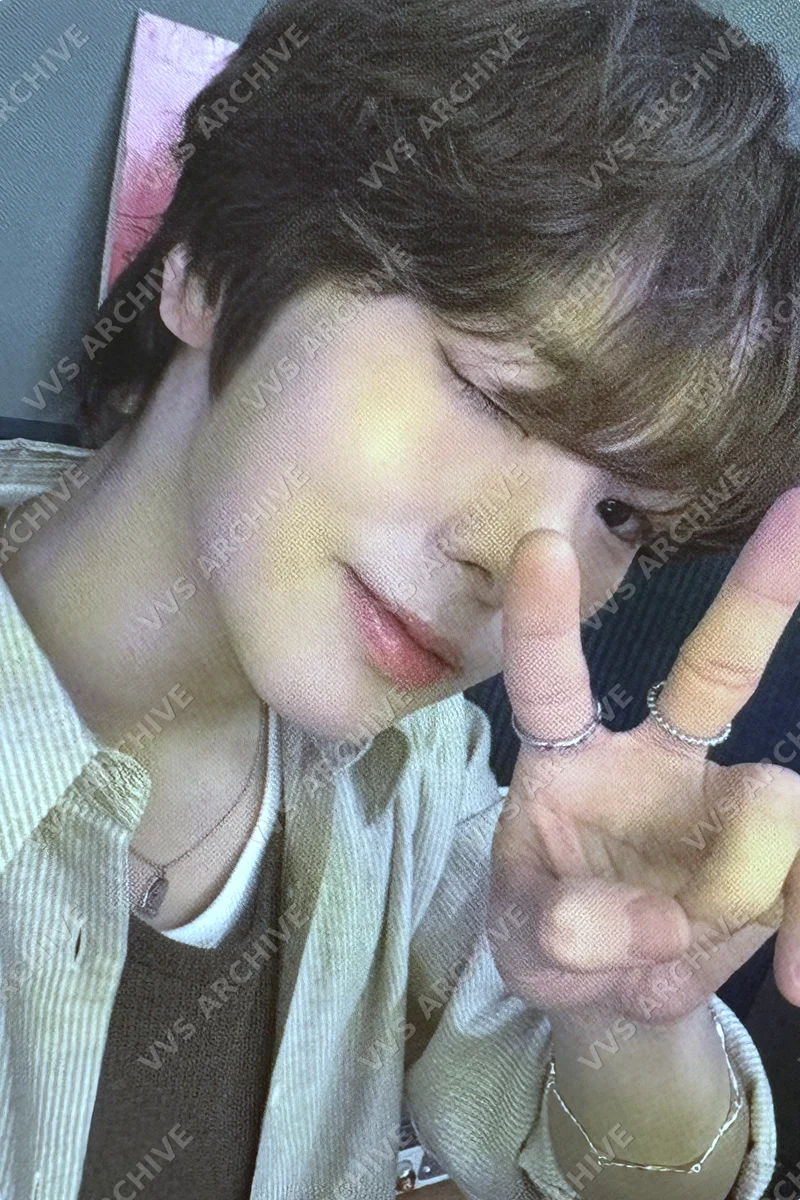
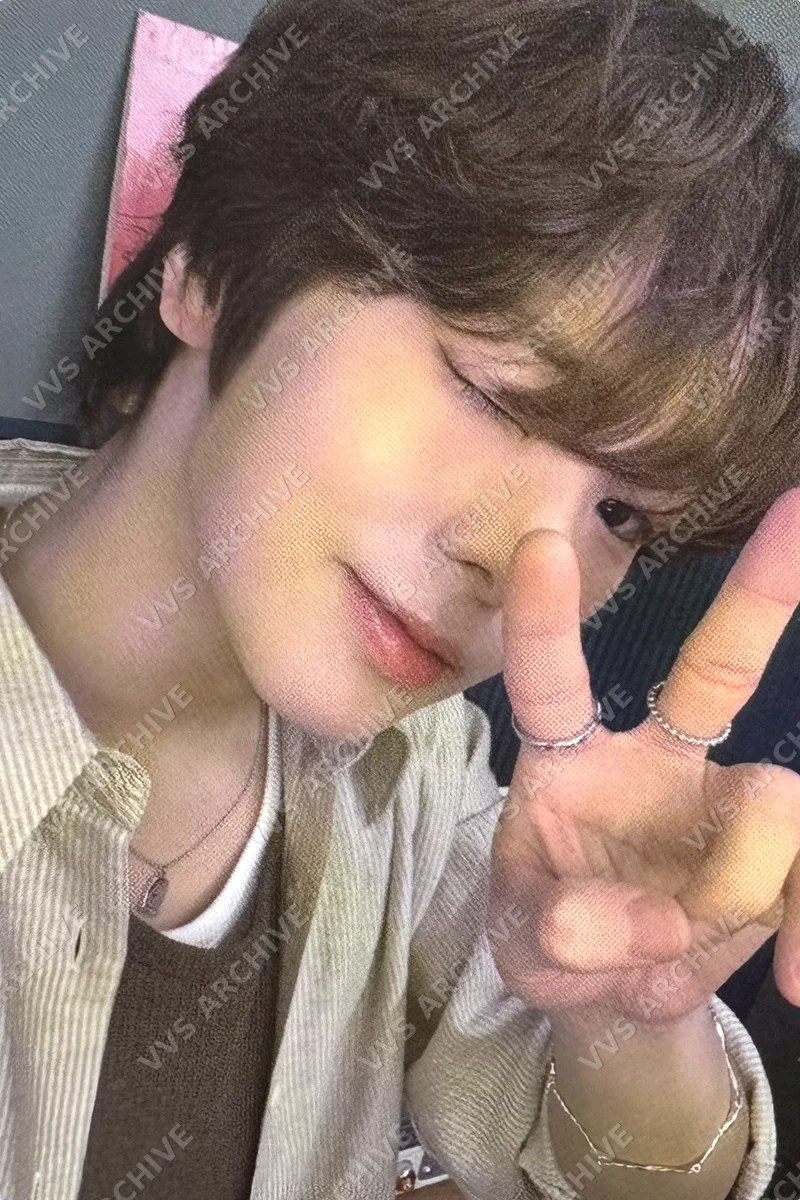
white balance fix

diff --git a/scripts/card_process.py b/scripts/card_process.py
@@ -42,22 +42,56 @@ def center_crop_fallback(img):
         return img[offset_y:offset_y + target_h, :]
 
 def apply_white_balance(bgr_img):
-    result = bgr_img.astype(np.float32)
-    average_b = np.mean(result[:, :, 0])
-    average_g = np.mean(result[:, :, 1])
-    average_r = np.mean(result[:, :, 2])
+    h, w = bgr_img.shape[:2]
+    corner_h = int(h * 0.12)
+    corner_w = int(w * 0.12)
+    
+    corners = {
+        "tl": bgr_img[0:corner_h, 0:corner_w],
+        "tr": bgr_img[0:corner_h, w-corner_w:w],
+        "bl": bgr_img[h-corner_h:h, 0:corner_w],
+        "br": bgr_img[h-corner_h:h, w-corner_w:w]
+    }
+    
+    best_bg = None
+    max_score = -float('inf')
+    
+    for key, patch in corners.items():
+        b_mean = np.mean(patch[:, :, 0])
+        g_mean = np.mean(patch[:, :, 1])
+        r_mean = np.mean(patch[:, :, 2])
+        
+        brightness = (b_mean + g_mean + r_mean) / 3.0
+        color_std = np.std([b_mean, g_mean, r_mean])
+        score = brightness - (color_std * 0.5)
+        
+        if score > max_score:
+            max_score = score
+            best_bg = patch
+            
+    if best_bg is None:
+        best_bg = corners["tr"]
+        
+    average_b = np.mean(best_bg[:, :, 0])
+    average_g = np.mean(best_bg[:, :, 1])
+    average_r = np.mean(best_bg[:, :, 2])
     average = (average_b + average_g + average_r) / 3.0
     
+    result = bgr_img.astype(np.float32)
     if average_b > 0: result[:, :, 0] *= (average / average_b)
     if average_g > 0: result[:, :, 1] *= (average / average_g)
     if average_r > 0: result[:, :, 2] *= (average / average_r)
     
     return np.clip(result, 0, 255).astype(np.uint8)
 
-def crop_card(image_path):
-    img = cv2.imread(image_path)
+def crop_card(image_input):
+    if isinstance(image_input, str):
+        img = cv2.imread(image_input)
+    else:
+        img = image_input
+        
     if img is None:
-        raise ValueError(f"Unable to read image at: {image_path}")
+        raise ValueError("Unable to read image for cropping")
     
     h, w = img.shape[:2]
     img_area = h * w
@@ -140,18 +174,19 @@ def apply_watermark(bgr_image, watermark_text="VVS ARCHIVE"):
 
 def process_card_image(input_path, card_id, output_dir="public/cards"):
     try:
-        cropped_bgr = crop_card(input_path)
-        balanced_bgr = apply_white_balance(cropped_bgr)
-        # 調整亮度與對比度 (alpha: 對比度, beta: 亮度增益)
-        alpha = 1.1  # 可依需求微調對比度 (1.0 為原樣)
-        beta = 15    # 增加亮度數值 (正數調亮)
-        bright_bgr = cv2.convertScaleAbs(balanced_bgr, alpha=alpha, beta=beta)
+        raw_img = cv2.imread(input_path)
+        if raw_img is None:
+            raise ValueError(f"Unable to read image at: {input_path}")
         
+        # Flow: White Balance -> Crop -> Contrast/Brightness -> Resize -> Watermark
+        balanced_bgr = apply_white_balance(raw_img)
+        cropped_bgr = crop_card(balanced_bgr)
+        
+        alpha = 1.1
+        beta = 15
+        bright_bgr = cv2.convertScaleAbs(cropped_bgr, alpha=alpha, beta=beta)
         
         standardized_bgr = cv2.resize(bright_bgr, (800, 1200), interpolation=cv2.INTER_LANCZOS4)
-        
-        # 加上此行檢查進入浮水印前的尺寸
-        #print(f"DEBUG [{card_id}] Input to watermark shape: {standardized_bgr.shape}")
         
         final_pil = apply_watermark(standardized_bgr)
         
@@ -162,3 +197,4 @@ def process_card_image(input_path, card_id, output_dir="public/cards"):
     except Exception as e:
         print(f"Error processing card image {card_id}: {e}")
         return None
+        

diff --git a/scripts/test_card.py b/scripts/test_card.py
@@ -1,12 +1,13 @@
 import os
-from process_cards import process_card_image
+from card_process import process_card_image
+import sys
 
 # 1. 指定輸入與輸出路徑（直接使用成國這張圖，或更名為 test_input.jpg）
-input_path = "test_input.jpg"
-output_path = "./test_output.webp"
+input_path = sys.argv[1]
+output_path = 'test_ouput.jpg'
 
 if not os.path.exists(input_path):
-    print(f"找不到測試圖片，請確認根目錄下存在 test_input.jpg")
+    print(f"找不到測試圖片，請確認根目錄下存在 test_input")
     exit(1)
 
 # 2. 執行處理管線
